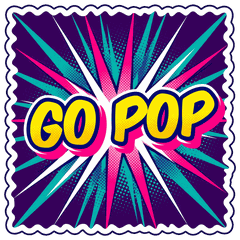
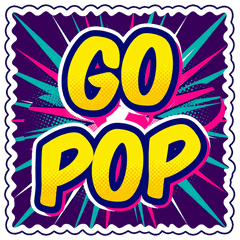
Guide 08: bigger-text example emotes, 200px size rule
Claude-Session: https://claude.ai/code/session_018yV4J9PC25nM4Sf9cRiDRR

diff --git a/tiktok/index.html b/tiktok/index.html
@@ -230,7 +230,7 @@ a.fold-next .arrow{flex:none;width:34px;height:34px;border-radius:50%;background
 <span class="box"><svg fill="none" stroke="#fff" stroke-linecap="round" stroke-linejoin="round" stroke-width="3" viewbox="0 0 16 16"><path d="M3 8.5l3.2 3L13 4.5"></path></svg></span>
 <span>
 <span class="step-title">Square PNG, see-through background</span>
-<span class="path">512 × 512 px · PNG · under 1 MB</span>
+<span class="path">200 × 200 px or larger · PNG · under 1 MB</span>
 <span class="why">Square is required. A see-through background lets your emote sit cleanly on any screen.</span>
 </span>
 </button>
@@ -257,7 +257,7 @@ a.fold-next .arrow{flex:none;width:34px;height:34px;border-radius:50%;background
 <span class="box"><svg fill="none" stroke="#fff" stroke-linecap="round" stroke-linejoin="round" stroke-width="3" viewbox="0 0 16 16"><path d="M3 8.5l3.2 3L13 4.5"></path></svg></span>
 <span>
 <span class="step-title">Fill the frame</span>
-<span class="why">Crop tight. Empty space around the edges makes your words smaller.</span>
+<span class="why">Crop tight, and let the words take up most of the emote. Stack two words instead of squeezing them onto one line.</span>
 </span>
 </button>
 <div class="label">Rule 5 — the test</div>
